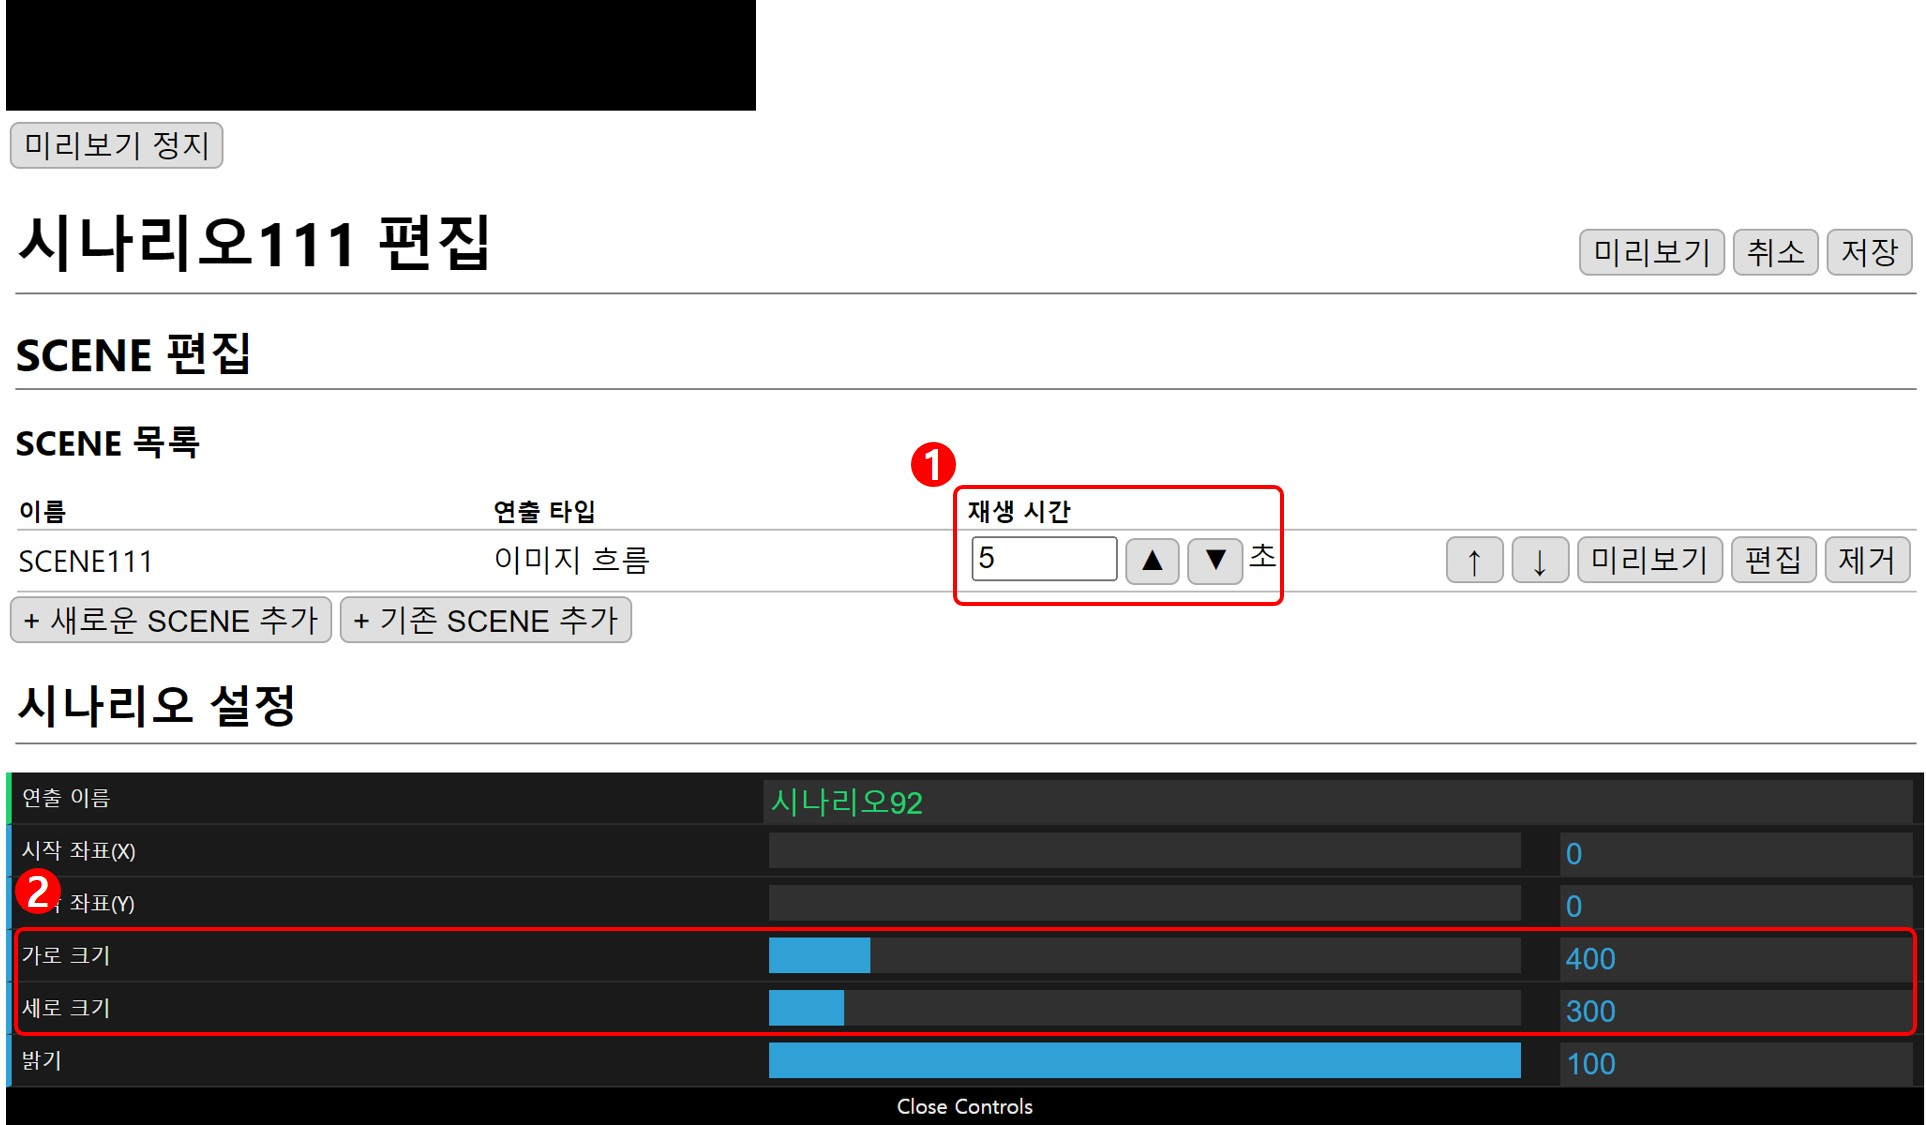
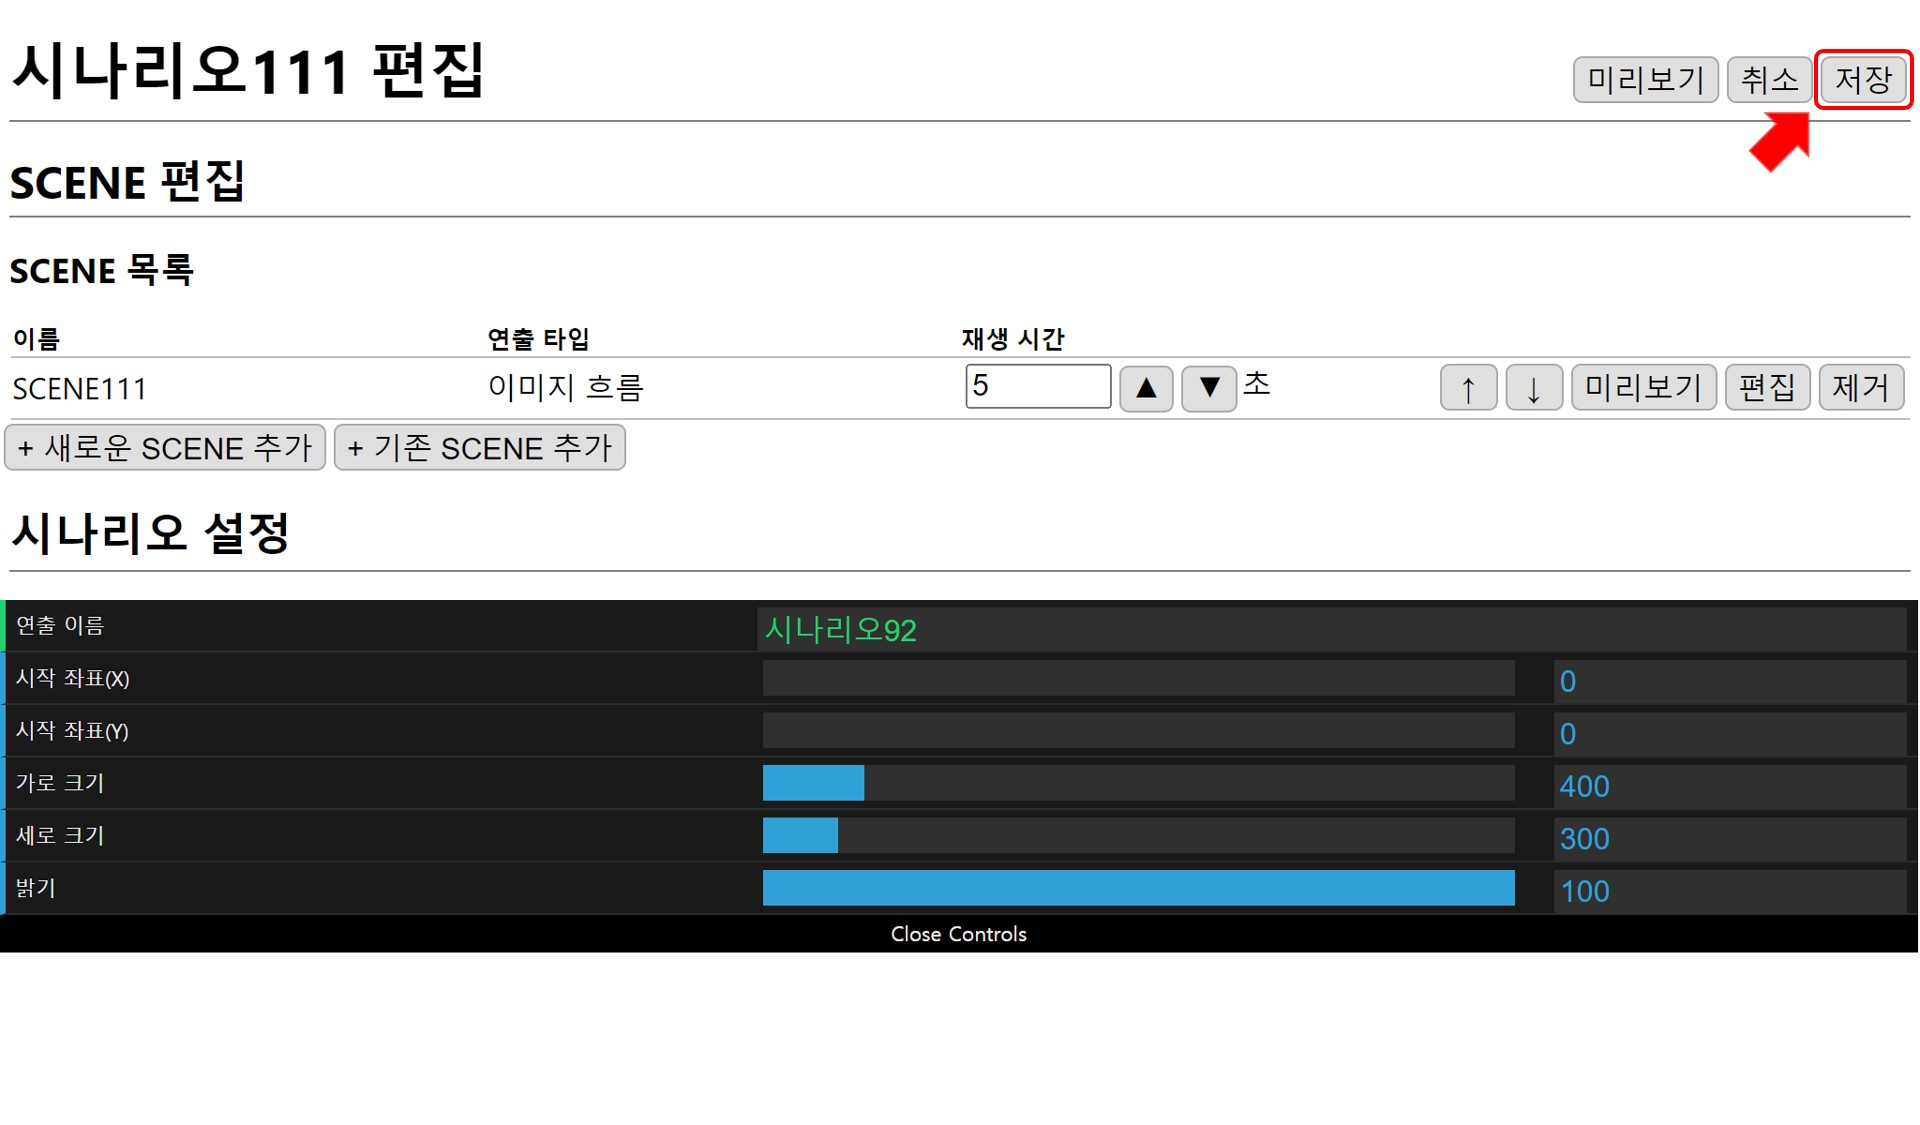
Update

diff --git a/start/gradientRight.md b/start/gradientRight.md
@@ -1,0 +1,68 @@
+# 색상 흐름 연출 만들기
+색상이 흐르는 연출입니다.
+여러 가지 색상을 추가할 수 있고 흐르는 방향, 속도를 수정해 다양하게 연출할 수 있습니다. 
+
+원 아이콘 대각선 흐름을 만들었던 시나리오에 색상 흐름 연출을 추가하는 예제입니다.
+
+<img src="../../img/2.jpg" width="1000"/>
+
+## 시나리오 편집
+홈 화면의 목록에서 생성된 시나리오를 편집할 수 있습니다.
+
+기존 시나리오에 SCENE을 추가하기 위해 해당 시나리오의 `편집` 버튼을 클릭합니다.
+
+<img src="../../img/2-1.jpg" width="1000" style="border: 1px solid"/>
+
+## SCENE 추가 
+`새로운 SCENE 추가` 버튼을 눌러 새로운 SCENE을 추가합니다.
+
+<img src="../../img/2-2.jpg" width="1000" style="border: 1px solid"/>
+
+## SCENE 설정
+SCENE 설정 화면은 아래와 같습니다.
+순서에 맞게 SCENE 연출 설정을 하고 `미리보기`로 설정 내역을 확인합니다.
+설정이 완료되면, `저장` 버튼을 눌러 시나리오에 새로운 SCENE 을 추가합니다.
+
+<img src="../../img/2-3.jpg" width="1000" style="border: 1px solid"/>
+
+### 1. 연출 타입 선택
+MFPlayer의 기본 연출 타입을 선택합니다.
+**파일 재생**, **이미지 흐름**, **색상 흐름**의 연출 타입이 있습니다.
+색상을 설정하기 위해서 `색상 흐름`을 선택합니다.
+
+### 2. 흐름 타입 선택
+색상의 흐름 타입을 선택합니다.
+**오른쪽**, **왼쪽**, **위**, **아래**의 연출 타입이 있습니다.
+색상의 오른쪽 흐름을 위해서 `오른쪽`을 선택합니다.
+
+### 3. 아이콘 선택 
+색상을 **추가**, **변경**, **삭제** 할 수 있고 두 번째 색상 앞에 추가하기 위해 두 번째 색상을 선택한 뒤 `추가`버튼을 눌러 색상을 추가합니다.
+
+<img src="../../img/2-4.jpg" width="1000" style="border: 1px solid"/>
+
+### 4. SCENE 미리보기
+SCENE 편집 완료 후 `미리보기` 버튼을 누르면 재생 화면이 나타나 편집 결과를 확인할 수 있습니다.
+`미리보기 정지`로 재생 화면이 닫힙니다.
+
+원하는 형태의 연출이 될 때까지 `미리보기`를 통해 반복적으로 빠른 수정 - 확인이 가능합니다.
+
+<img src="../../img/2-5.jpg" width="1000" style="border: 1px solid"/>
+
+
+## SCENE 저장
+`저장` 버튼을 누르면 설정된 SCENE 저장되고 시나리오에 추가됩니다.
+
+<img src="../../img/2-6.jpg" width="1000" style="border: 1px solid"/>
+
+시나리오에 SCENE이 추가된 것을 확인할 수 있습니다.
+
+<img src="../../img/2-7.jpg" width="1000" style="border: 1px solid"/>
+
+## 시나리오 저장
+`저장` 버튼을 눌러 시나리오를 저장합니다.
+
+<img src="../../img/2-8.jpg" width="1000" style="border: 1px solid"/>
+
+시나리오 목록에서 SCENE을 누르면 선택한 시나리오 내에 포함된 SCENE들이 표시되어 추가된 SCENE을 확인할 수 있습니다.
+
+<img src="../../img/2-9.jpg" width="1000" style="border: 1px solid"/>

diff --git a/start/launcher.md b/start/launcher.md
@@ -1,0 +1,22 @@
+# 시나리오 단독 재생하기
+
+## 시나리오 단독 재생
+홈 화면의 목록에서 `단독 재생` 버튼을 누르면 편집창이 닫히고, 선택한 시나리오가 재생됩니다.
+
+<img src="../../img/0-3.jpg" width="1000" style="border: 1px solid"/>
+
+시나리오가 재생되면서 하단에 제어창이 열립니다. 제어창에서 `정지` 버튼을 누르면 재생이 멈추고 다시 편집창이 열립니다.
+
+<img src="../../img/0-4.jpg" width="1000" style="border: 1px solid"/>
+
+## 제어창
+<img src="../../img/0-5.jpg" width="1000" style="border: 1px solid"/>
+
+### 1. 재생 화면
+선택한 시나리오에 저장된 화면이 재생됩니다.
+
+### 2. 재생
+**스케줄 재생**, **시나리오 재생** 을 표시해 지금 재생되는 타입을 나타냅니다. 현재는 시나리오의 단독 재생 버튼을 누른 상태이므로 시나리오 재생이 표시됩니다.
+
+### 3. 현재 재생중인 이름
+재생 중인 시나리오의 이름이 표시됩니다.

diff --git a/SUMMARY.md b/SUMMARY.md
@@ -3,5 +3,6 @@
 * [소개](README.md)
 * [MFPlayer 시작하기](start/README.md)
   * [대각선 흐름 연출 만들기](start/circleDiagonal.md)
-  * [색상 흐름 연출 만들기](start/gradient.md)
+  * [오른쪽 색상 흐름 연출 만들기](start/gradientRight.md)
   * [시나리오 편집하기](start/scenario.md)
+  * [시나리오 단독 재생하기](start/launcher.md)
